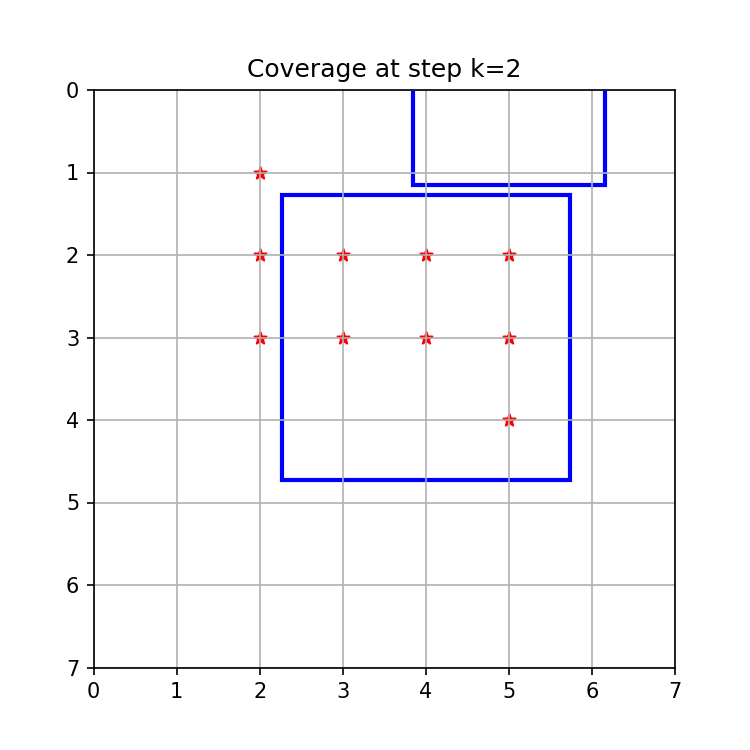
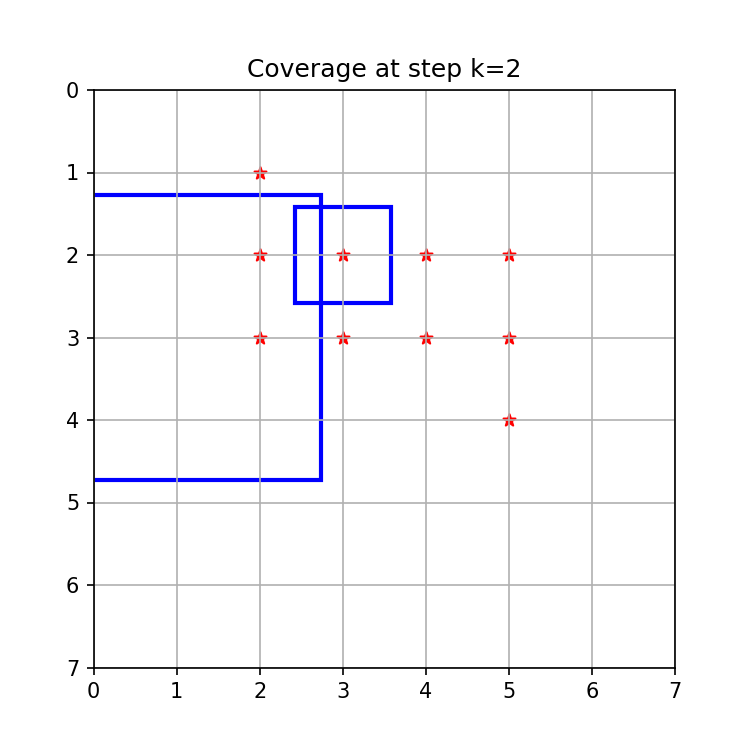
verified potential calculation

Changed region(s): [[0.1227, 0.1227, 0.7973, 0.644], [0.7973, 0.1227, 0.828, 0.2453]]

diff --git a/potential_game_env.py b/potential_game_env.py
@@ -68,58 +68,79 @@ class PotentialGameEnv(gym.Env):
     #     Use coverage minus overlap as the potential function.
     #     This is the same logic as FieldCoverageEnv._compute_potential(...).
     #     """
-    #     n_drones = self.n_drones
-
     #     masks = self.env._view_masks()
-    #     coverage, overlap, correction_term = 0, 0, 0
+    #     coverage, overlap = 0, 0
     #     foi = self.env.foi.astype(int)
-
     #     for i in masks:
     #         coverage += np.sum(masks[i] & foi)
     #         for j in masks:
     #             if j != i:
     #                 overlap += np.sum(masks[i] & masks[j] & foi)
-    #                 correctoin_term += (-1)**(n_drones)*factorial(n_drones-1)*overlap
 
-    #     return coverage - overlap + correctoin_term
+    #     return coverage - overlap
+
+    # def _compute_potential(self):
+    #     """
+    #     Compute the global potential (coverage) using the inclusion–exclusion principle.
+
+    #     For a set S of drones, let φ_S be the total area (or count) where the mask
+    #     for each drone in S and the field-of-interest (foi) are simultaneously True.
+        
+    #     Then the potential is:
+        
+    #       J = ∑_{k=1}^{n_drones} ∑_{S ⊆ {1,…,n_drones}, |S|=k} [(-1)^(k-1) * (k-1)! * φ_S]
+        
+    #     For example, with three drones, this computes:
+    #       J = f1 + f2 + f3 - (o12 + o13 + o23) + 2 * o123
+
+    #     """
+    #     n_drones = self.n_drones
+    #     # Assume self.env._view_masks() returns a dictionary mapping drone indices
+    #     # to a boolean numpy array (mask) indicating coverage.
+    #     masks = self.env._view_masks()  
+    #     # Convert the field-of-interest to a boolean mask
+    #     foi = self.env.foi.astype(bool)
+        
+    #     potential = 0
+    #     # Loop over all nonempty subsets of drones (using combinations).
+    #     for k in range(1, n_drones + 1):
+    #         for subset in combinations(range(n_drones), k):
+    #             # Start with the FOI mask; restrict it with each drone's mask in the subset.
+    #             inter = foi.copy()
+    #             for i in subset:
+    #                 inter = np.logical_and(inter, masks[i])
+    #             # φ_S is the "area" (or count) of the intersection.
+    #             phi_S = np.sum(inter)
+    #             # Coefficient as per the inclusion–exclusion formula.
+    #             coefficient = ((-1)**(k-1)) * factorial(k-1)
+    #             potential += coefficient * phi_S
+
+    #     return potential
 
     def _compute_potential(self):
         """
         Compute the global potential (coverage) using the inclusion–exclusion principle.
-
-        For a set S of drones, let φ_S be the total area (or count) where the mask
-        for each drone in S and the field-of-interest (foi) are simultaneously True.
-        
-        Then the potential is:
-        
-          J = ∑_{k=1}^{n_drones} ∑_{S ⊆ {1,…,n_drones}, |S|=k} [(-1)^(k-1) * (k-1)! * φ_S]
-        
-        For example, with three drones, this computes:
-          J = f1 + f2 + f3 - (o12 + o13 + o23) + 2 * o123
-
+        For a set S of drones, let φ_S be the area where the FOI and each drone in S have True.
+        Then:
+        J = ∑_{k=1}^{n_drones} ∑_{S ⊆ {1,…,n_drones}, |S|=k} [(-1)^(k-1) * (k-1)! * φ_S]
         """
         n_drones = self.n_drones
-        # Assume self.env._view_masks() returns a dictionary mapping drone indices
-        # to a boolean numpy array (mask) indicating coverage.
-        masks = self.env._view_masks()  
-        # Convert the field-of-interest to a boolean mask
+        masks = self.env._view_masks()
+        # Ensure FOI is boolean
         foi = self.env.foi.astype(bool)
         
         potential = 0
-        # Loop over all nonempty subsets of drones (using combinations).
         for k in range(1, n_drones + 1):
             for subset in combinations(range(n_drones), k):
-                # Start with the FOI mask; restrict it with each drone's mask in the subset.
                 inter = foi.copy()
                 for i in subset:
-                    inter = np.logical_and(inter, masks[i])
-                # φ_S is the "area" (or count) of the intersection.
+                    # Using bitwise AND here, assuming masks[i] is boolean
+                    inter = inter & masks[i]
                 phi_S = np.sum(inter)
-                # Coefficient as per the inclusion–exclusion formula.
                 coefficient = ((-1)**(k-1)) * factorial(k-1)
                 potential += coefficient * phi_S
-        return potential
 
+        return potential
 
 
 

diff --git a/main_potential.py b/main_potential.py
@@ -11,6 +11,7 @@ from field_coverage_env import FieldCoverageEnv
 from potential_game_env import generate_phi, PotentialGameEnv
 import argparse
 from util import save_coverage_snapshot
+from time import perf_counter
 
 
 def q_learning_potential_fa(args, env, phi_func, actions_dict,
@@ -59,12 +60,13 @@ def q_learning_potential_fa(args, env, phi_func, actions_dict,
         return eps_min + (eps_max - eps_min) * math.exp(-1.0 * t / eps_decay)
 
     episode_rewards = []
-
+    durations = []
     # 4) Main training loop
     for ep in range(n_episodes):
         # Check if we need to perturb FOI or FOV at the start of this episode
         obs = env.reset()  # shape (n_drones,3)
-        ep_reward = 0.0
+        ep_reward = 0.0 
+        t_start  = perf_counter()
 
         for t in range(max_steps):
             if ep == n_episodes - 1:
@@ -111,9 +113,13 @@ def q_learning_potential_fa(args, env, phi_func, actions_dict,
             obs = next_obs
             if done:
                 break
+        tf = perf_counter()
+        duration = tf-t_start
+        durations.append(duration)
 
         episode_rewards.append(ep_reward)
-        print(f"[Ep {ep}] steps:{t+1}  sumReward:{ep_reward:.2f}  eps:{epsilon:.3f}")
+
+        print(f"[Ep {ep}] steps:{t+1}  sumReward:{ep_reward:.2f}  eps:{epsilon:.3f}  duration for episode:{duration:.2f}")
 
     return theta, episode_rewards
 

diff --git a/main.py b/main.py
@@ -153,7 +153,7 @@ def main():
                 steps += 1
                 if done:
                     break
-            print(f'Episode {episode}: {k + 1} steps, reward is {episode_rewards[episode]}')
+            print(f'Episode {episode}: {k + 1} steps, Episode reward is {episode_rewards[episode]}')
     except KeyboardInterrupt:
         pass
     
